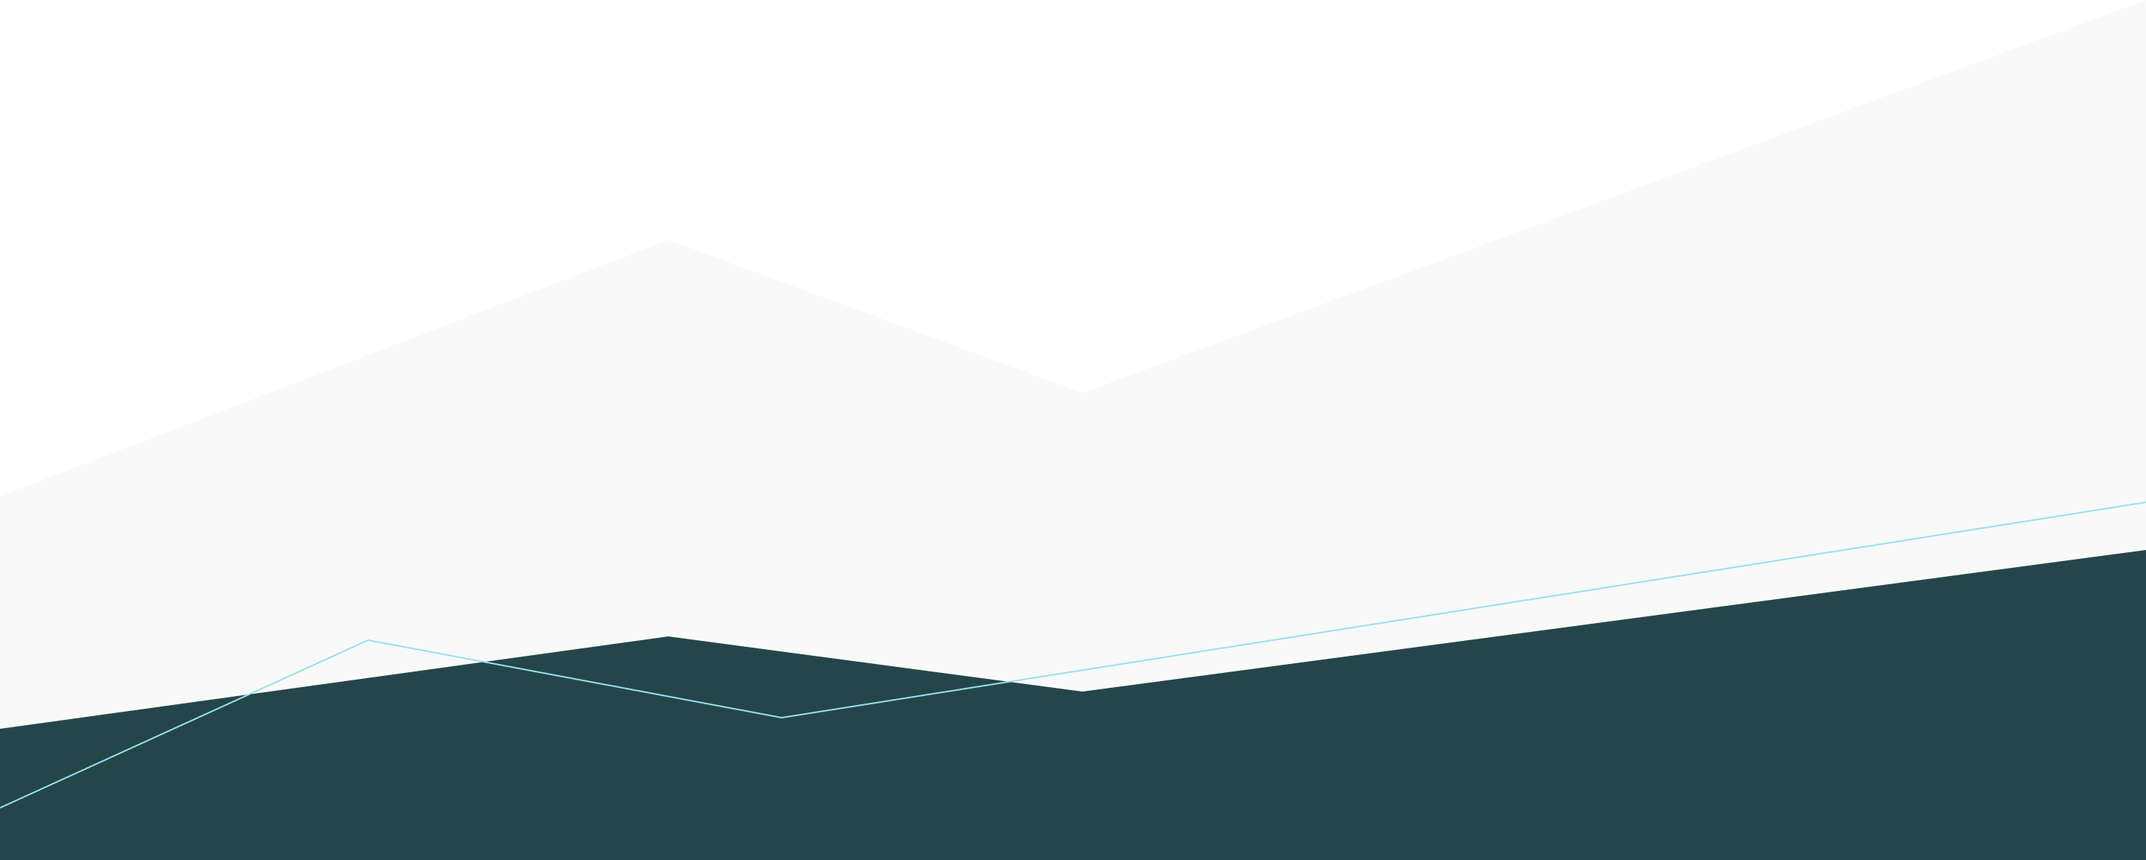
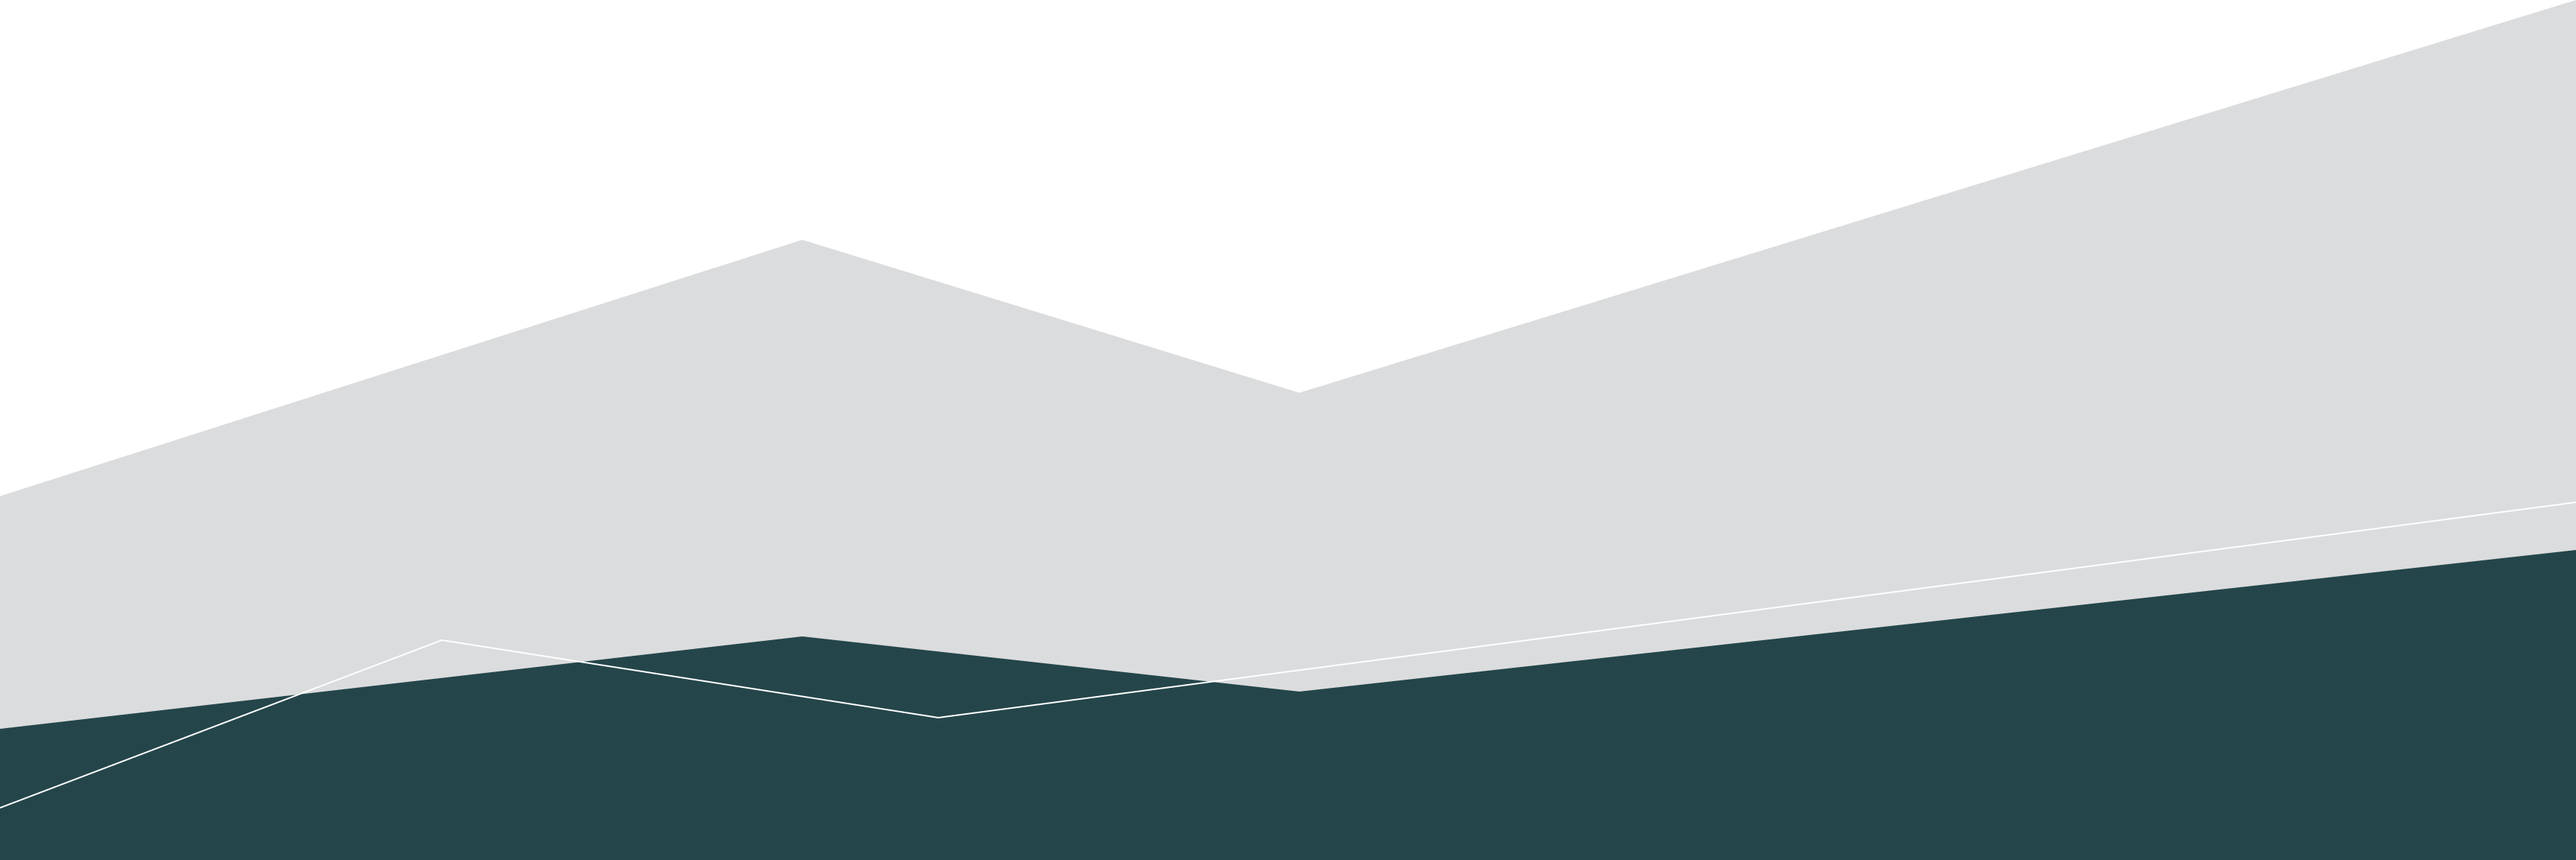
Update KYC fields and adjust design

diff --git a/apps/archie-dashboard/src/components/_generic/icons/logo.tsx b/apps/archie-dashboard/src/components/_generic/icons/logo.tsx
@@ -5,40 +5,33 @@ import { colors } from '../../../constants/theme';
 import { iconProps } from './icons.interface';
 
 export const Logo: FC<iconProps> = ({ fill = colors.black, className }) => (
-  <svg
-    width="118"
-    height="32"
-    viewBox="0 0 118 32"
-    fill="none"
-    xmlns="http://www.w3.org/2000/svg"
-    className={className}
-  >
+  <svg width="86" height="26" viewBox="0 0 86 26" fill="none" xmlns="http://www.w3.org/2000/svg" className={className}>
     <path
-      d="M43.5734 22.9834L42.9489 29.0076H38.0757L41.638 3.78589H48.7447L52.3943 29.0148H47.4245L46.7252 22.9906L43.5734 22.9834ZM46.3103 18.7239C45.9502 15.4575 45.446 10.5958 45.2105 8.14916H45.0218C44.9332 9.92818 44.3354 15.585 43.9954 18.7253L46.3103 18.7239Z"
+      d="M34.2943 18.2258L33.8174 22.729H30.0957L32.8163 3.875H38.2437L41.0309 22.7344H37.2355L36.7014 18.2312L34.2943 18.2258ZM36.3845 15.0416C36.1095 12.5999 35.7245 8.96566 35.5446 7.13669H35.4005C35.3328 8.46656 34.8763 12.6952 34.6166 15.0427L36.3845 15.0416Z"
       fill={fill}
     />
     <path
-      d="M53.7383 15.8629C53.7383 12.4612 53.752 10.8485 53.6893 9.10768H58.2478C58.2989 9.51102 58.3861 11.1885 58.3861 12.096C59.1005 9.75086 60.6851 8.81886 62.5217 8.80518V14.6147C60.2112 14.6147 58.5236 15.0425 58.5236 18.4594V29.0075H53.7383V15.8629Z"
+      d="M42.0589 12.9028C42.0589 10.3599 42.0693 9.15442 42.0215 7.85309H45.5028C45.5419 8.1546 45.6084 9.40855 45.6084 10.0869C46.1541 8.33389 47.3642 7.63718 48.7668 7.62695V11.9698C47.0023 11.9698 45.7135 12.2896 45.7135 14.8438V22.7288H42.0589V12.9028Z"
       fill={fill}
     />
     <path
-      d="M75.4647 21.9764V22.6556C75.4647 26.4355 74.4405 29.3136 69.5586 29.3136C64.9224 29.3136 63.8002 26.5284 63.8002 22.1932V15.389C63.8002 11.965 65.0736 8.80884 69.7718 8.80884C74.864 8.80884 75.5057 12.266 75.5057 14.9727V15.9429H70.9033V14.7574C70.9033 13.4256 70.7038 12.6895 69.7509 12.6895C68.7981 12.6895 68.5755 13.4336 68.5755 14.7329V23.3759C68.5755 24.5362 68.7757 25.4056 69.7509 25.4056C70.7262 25.4056 70.9033 24.5607 70.9033 23.2369V21.9664L75.4647 21.9764Z"
+      d="M58.6504 17.4721V17.9798C58.6504 20.8054 57.8682 22.9569 54.1399 22.9569C50.5992 22.9569 49.7422 20.8749 49.7422 17.6342V12.5478C49.7422 9.98822 50.7147 7.62891 54.3027 7.62891C58.1916 7.62891 58.6817 10.2133 58.6817 12.2366V12.9619H55.1669V12.0756C55.1669 11.0801 55.0145 10.5299 54.2868 10.5299C53.559 10.5299 53.3891 11.086 53.3891 12.0573V18.5182C53.3891 19.3856 53.542 20.0355 54.2868 20.0355C55.0315 20.0355 55.1669 19.4039 55.1669 18.4143V17.4646L58.6504 17.4721Z"
       fill={fill}
     />
     <path
-      d="M81.9827 3.14842V10.6585C82.6691 9.54928 83.82 8.80527 85.6437 8.80527C88.6911 8.80527 89.6418 11.038 89.6418 13.8982V29.0076H84.8327V15.0945C84.8327 13.8845 84.595 12.9885 83.4822 12.9885C82.3694 12.9885 81.9697 13.6583 81.9697 15.5605V29.0076H77.1944V2.66874H81.5001C81.563 2.66794 81.6254 2.67969 81.6838 2.70331C81.7425 2.72669 81.7959 2.76172 81.8408 2.80631C81.886 2.85105 81.9218 2.90445 81.9459 2.96332C81.9703 3.02198 81.9828 3.0849 81.9827 3.14842Z"
+      d="M63.6275 3.39767V9.01167C64.1517 8.18252 65.0307 7.62634 66.4234 7.62634C68.7507 7.62634 69.4768 9.29541 69.4768 11.4334V22.7282H65.8041V12.3277C65.8041 11.4232 65.6226 10.7534 64.7727 10.7534C63.9229 10.7534 63.6176 11.2541 63.6176 12.6761V22.7282H59.9707V3.03909H63.259C63.307 3.03849 63.3547 3.04728 63.3992 3.06493C63.4441 3.08241 63.4849 3.1086 63.5191 3.14193C63.5537 3.17538 63.581 3.2153 63.5994 3.2593C63.6181 3.30315 63.6276 3.35018 63.6275 3.39767Z"
       fill={fill}
     />
     <path
-      d="M91.4324 9.11201H96.2156V29.0111H91.4324V9.11201ZM91.8753 2.67298H95.823C95.8781 2.67292 95.9326 2.68377 95.9834 2.70491C96.0342 2.72606 96.0803 2.75706 96.119 2.79614C96.1977 2.87573 96.2417 2.98316 96.2415 3.09504V6.63867C96.2417 6.75055 96.1977 6.85798 96.119 6.93757C96.0803 6.97675 96.0342 7.00786 95.9834 7.02913C95.9326 7.05039 95.8781 7.06138 95.823 7.06146H91.8753C91.8202 7.06138 91.7657 7.05062 91.7147 7.02977C91.6639 7.00824 91.6177 6.97719 91.5786 6.93829C91.5397 6.89875 91.5089 6.85203 91.4878 6.80073C91.4668 6.74932 91.4563 6.69422 91.4569 6.63867V3.09576C91.4556 3.03966 91.4654 2.98386 91.4857 2.93154C91.5064 2.87958 91.5369 2.83213 91.5757 2.79182C91.6147 2.75182 91.6613 2.72005 91.7127 2.6984C91.7642 2.67675 91.8195 2.66565 91.8753 2.66577V2.67298Z"
+      d="M70.8457 7.85588H74.4986V22.7311H70.8457V7.85588ZM71.184 3.04249H74.1989C74.2409 3.04245 74.2825 3.05057 74.3213 3.06637C74.3601 3.08217 74.3953 3.10535 74.4249 3.13456C74.485 3.19406 74.5186 3.27437 74.5184 3.358V6.00698C74.5186 6.09061 74.485 6.17092 74.4249 6.23042C74.3954 6.2597 74.3602 6.28296 74.3214 6.29886C74.2826 6.31475 74.2409 6.32297 74.1989 6.32303H71.184C71.1419 6.32297 71.1003 6.31493 71.0613 6.29934C71.0225 6.28325 70.9872 6.26004 70.9574 6.23096C70.9277 6.2014 70.9041 6.16647 70.8881 6.12812C70.872 6.08969 70.8639 6.0485 70.8644 6.00698V3.35854C70.8634 3.3166 70.8709 3.27489 70.8864 3.23578C70.9022 3.19694 70.9256 3.16147 70.9552 3.13133C70.9849 3.10143 71.0205 3.07768 71.0598 3.0615C71.0991 3.04531 71.1413 3.03702 71.184 3.03711V3.04249Z"
       fill={fill}
     />
     <path
-      d="M102.567 20.2989V23.1979C102.567 24.4836 102.867 25.4307 103.968 25.4307C105.155 25.4307 105.354 24.4087 105.354 23.1367V22.7046H109.989V22.9746C109.989 25.6079 109.202 29.3244 103.993 29.3244C98.9006 29.3244 97.8325 26.4009 97.8325 22.3185V15.5986C97.8325 12.3647 99.2946 8.80518 104.004 8.80518C108.167 8.80518 110.054 11.326 110.054 15.5755V20.3011L102.567 20.2989ZM105.443 16.8597V14.9079C105.443 13.3579 105.106 12.652 104.03 12.652C103.104 12.652 102.59 13.3197 102.59 14.9079V16.8597H105.443Z"
+      d="M79.348 16.2189V18.386C79.348 19.3471 79.5773 20.0551 80.4184 20.0551C81.3243 20.0551 81.4767 19.2911 81.4767 18.3402V18.0172H85.0163V18.2191C85.0163 20.1875 84.4156 22.9657 80.4371 22.9657C76.5482 22.9657 75.7324 20.7803 75.7324 17.7286V12.7052C75.7324 10.2878 76.849 7.62695 80.4459 7.62695C83.6247 7.62695 85.0664 9.51139 85.0664 12.688V16.2205L79.348 16.2189ZM81.5449 13.648V12.1889C81.5449 11.0302 81.2869 10.5026 80.4657 10.5026C79.7583 10.5026 79.3656 11.0017 79.3656 12.1889V13.648H81.5449Z"
       fill={fill}
     />
     <path
-      d="M15.9951 0C7.16103 0 0 7.16103 0 15.9951C0 24.8293 7.16103 31.9903 15.9951 31.9903C24.8293 31.9903 31.9903 24.8293 31.9903 15.9951C31.9903 7.16103 24.8293 0 15.9951 0ZM23.5728 23.5728C21.8196 25.326 19.5127 26.417 17.0453 26.6599C14.5778 26.9029 12.1025 26.2828 10.041 24.9053C7.97951 23.5277 6.45943 21.478 5.73977 19.1054C5.02011 16.7328 5.1454 14.184 6.09428 11.8934C7.04317 9.60274 8.75694 7.712 10.9436 6.5433C13.1302 5.37459 15.6545 5.00023 18.0862 5.48401C20.5179 5.9678 22.7067 7.27978 24.2795 9.19642C25.8524 11.1131 26.712 13.5158 26.7119 15.9951C26.7157 17.403 26.4402 18.7977 25.9014 20.0984C25.3626 21.3991 24.5711 22.5801 23.5728 23.5728ZM9.03006 15.9951L11.7492 13.276H20.2419L22.961 15.9951L15.9951 22.9602L9.03006 15.9951Z"
+      d="M12.2156 0.785156C5.46891 0.785156 0 6.25407 0 13.0007C0 19.7474 5.46891 25.2163 12.2156 25.2163C18.9622 25.2163 24.4311 19.7474 24.4311 13.0007C24.4311 6.25407 18.9622 0.785156 12.2156 0.785156ZM18.0027 18.7879C16.6637 20.1267 14.902 20.9599 13.0176 21.1455C11.1332 21.331 9.24273 20.8575 7.66836 19.8054C6.09399 18.7534 4.9331 17.188 4.38349 15.376C3.83388 13.564 3.92956 11.6175 4.65423 9.86817C5.3789 8.11882 6.68772 6.67485 8.35768 5.7823C10.0276 4.88976 11.9554 4.60386 13.8125 4.97332C15.6696 5.34279 17.3412 6.34476 18.5424 7.80851C19.7436 9.27225 20.4001 11.1072 20.4 13.0007C20.4029 14.0759 20.1925 15.1411 19.781 16.1344C19.3695 17.1278 18.7651 18.0297 18.0027 18.7879ZM6.8963 13.0007L8.97295 10.9241H15.4588L17.5354 13.0007L12.2156 18.32L6.8963 13.0007Z"
       fill={fill}
     />
   </svg>

diff --git a/apps/archie-dashboard/src/routes/onboarding/components/onboarding-steps/kyc-step/kyc-step.tsx b/apps/archie-dashboard/src/routes/onboarding/components/onboarding-steps/kyc-step/kyc-step.tsx
@@ -1,11 +1,11 @@
 import { FC } from 'react';
 import { Formik, Form, Field, FormikValues } from 'formik';
-import { format, parse, isDate, differenceInYears } from 'date-fns';
+import { format, differenceInYears } from 'date-fns';
 import * as Yup from 'yup';
 import { RequestState } from '@archie/api-consumer/interface';
 import { useCreateKyc } from '@archie/api-consumer/kyc/hooks/use-create-kyc';
 import { step } from '../../../../../constants/onboarding-steps';
-import { SubtitleS, ParagraphS } from '../../../../../components/_generic/typography/typography.styled';
+import { SubtitleS, ParagraphXS } from '../../../../../components/_generic/typography/typography.styled';
 import { ButtonPrimary } from '../../../../../components/_generic/button/button.styled';
 import { InputText } from '../../../../../components/_generic/input-text/input-text.styled';
 import { ArrowRight } from '../../../../../components/_generic/icons/arrow-right';
@@ -23,14 +23,16 @@ export const KycStep: FC<KycStepProps> = ({ setCurrentStep }) => {
   const minYears = (value: Date) => differenceInYears(new Date(), new Date(value)) >= 18;
 
   const validation = Yup.object().shape({
-    fullLegalName: Yup.string().min(2, 'Too Short!').max(50, 'Too Long!').required('Please enter the required field'),
+    firstName: Yup.string().min(2, 'Too Short!').max(50, 'Too Long!').required('Please enter the required field'),
+    lastName: Yup.string().min(2, 'Too Short!').max(50, 'Too Long!').required('Please enter the required field'),
     dateOfBirth: Yup.date()
       .nullable()
       .test('dob', 'Should be older than 18', (value) => minYears(value ?? today))
       .max(today, 'Date cannot be in the future')
       .required('Please enter the required field'),
-    country: Yup.string().required('Please enter the required field'),
-    state: Yup.string().required('Please enter the required field'),
+    address: Yup.string().required('Please enter the required field'),
+    phoneNumber: Yup.string().required('Please enter the required field'),
+    phoneNumberCountryCode: Yup.string().required('Please enter the required field'),
     ssnDigits: Yup.string()
       .matches(/^[0-9]+$/, 'Only digits')
       .test('len', 'Must be exactly 4 digits', (value) => value?.length === 4)
@@ -40,10 +42,12 @@ export const KycStep: FC<KycStepProps> = ({ setCurrentStep }) => {
   const handleSubmit = (values: FormikValues) => {
     if (mutationRequest.state === RequestState.IDLE) {
       mutationRequest.mutate({
-        fullLegalName: values.fullLegalName,
+        firstName: values.firstName,
+        lastname: values.lastname,
         dateOfBirth: values.dateOfBirth.toISOString(),
-        country: values.country,
-        state: values.state,
+        address: values.address,
+        phoneNumber: values.phoneNumber,
+        phoneNumberCountryCode: values.phoneNumberCountryCode,
         ssnDigits: values.ssnDigits,
       });
 
@@ -56,16 +60,18 @@ export const KycStep: FC<KycStepProps> = ({ setCurrentStep }) => {
   return (
     <KycStepStyled>
       <SubtitleS>A bit about you</SubtitleS>
-      <ParagraphS>
+      <ParagraphXS>
         We need to ask some personal information for compliance reasons. This information will not impact your credit
         score or your ability to get the Archie Card.
-      </ParagraphS>
+      </ParagraphXS>
       <Formik
         initialValues={{
-          fullLegalName: '',
+          firstName: '',
+          lastName: '',
           dateOfBirth: format(today, 'MM-dd-yyyy'),
-          country: 'United states',
-          state: '',
+          address: '',
+          phoneNumber: '',
+          phoneNumberCountryCode: '',
           ssnDigits: '',
         }}
         validationSchema={validation}
@@ -73,25 +79,32 @@ export const KycStep: FC<KycStepProps> = ({ setCurrentStep }) => {
       >
         {({ errors, touched }) => (
           <Form>
-            <InputText>
-              Full legal name*
-              <Field name="fullLegalName" placeholder="John Doe" />
-              {errors.fullLegalName && touched.fullLegalName ? <div>{errors.fullLegalName}</div> : null}
-            </InputText>
+            <div className="input-group">
+              <InputText>
+                First Name*
+                <Field name="firstName" placeholder="John" />
+                {errors.firstName && touched.firstName ? <div>{errors.firstName}</div> : null}
+              </InputText>
+              <InputText>
+                Last Name*
+                <Field name="lastName" placeholder="Doe" />
+                {errors.lastName && touched.lastName ? <div>{errors.lastName}</div> : null}
+              </InputText>
+            </div>
             <InputText>
               Date of birth*
               <Field name="dateOfBirth" placeholder="Date of birth" />
               {errors.dateOfBirth && touched.dateOfBirth ? <div>{errors.dateOfBirth}</div> : null}
             </InputText>
             <InputText>
-              Country of residence*
-              <Field name="country" placeholder="Country" disabled />
-              {errors.country && touched.country ? <div>{errors.country}</div> : null}
+              Address*
+              <Field name="address" placeholder="Street, City, State" disabled />
+              {errors.address && touched.address ? <div>{errors.address}</div> : null}
             </InputText>
             <InputText>
-              State of residence*
-              <Field name="state" placeholder="State" />
-              {errors.state && touched.state ? <div>{errors.state}</div> : null}
+              Phone Number*
+              <Field name="phoneNumber" placeholder="+386 30 248 965" />
+              {errors.phoneNumber && touched.phoneNumber ? <div>{errors.phoneNumber}</div> : null}
             </InputText>
             <InputText>
               Last 4 SSN digits*

diff --git a/apps/archie-dashboard/src/routes/onboarding/components/onboarding-steps/kyc-step/kyc-step.styled.ts b/apps/archie-dashboard/src/routes/onboarding/components/onboarding-steps/kyc-step/kyc-step.styled.ts
@@ -14,7 +14,7 @@ export const KycStepStyled = styled.div`
   text-align: center;
 
   h4 {
-    margin-bottom: 1.5rem;
+    margin-bottom: 0.5rem;
   }
 
   p {
@@ -25,8 +25,9 @@ export const KycStepStyled = styled.div`
     width: 100%;
   }
 
-  button {
-    margin-bottom: 1.5rem;
+  .input-group {
+    display: flex;
+    gap: 1rem;
   }
 
   .divider {
@@ -34,6 +35,10 @@ export const KycStepStyled = styled.div`
   	width: 100%;
     background-color: ${({ theme }) => theme.borderPrimary};
     border: 0;
-    margin-bottom: 2rem;
+    margin-bottom: 1.5rem;
   }  
+
+  button {
+    margin-bottom: 0.5rem;
+  }
 `

diff --git a/apps/archie-dashboard/src/routes/onboarding/onboarding-route.styled.ts b/apps/archie-dashboard/src/routes/onboarding/onboarding-route.styled.ts
@@ -8,16 +8,13 @@ export const OnboardingStyled = styled.div`
   display: flex;
   justify-content: center;
   align-items: flex-start;
+  background-color: ${({ theme }) => theme.backgroundSecondary};
   background-image: url(${bgOnboarding});
   background-repeat: no-repeat;
   background-size: 100%;
   background-position: bottom;
   width: 100%;
-  padding: 5rem 1rem;
-
-  @media (max-width: ${breakpoints.screenMD}) {
-    padding: 3rem 1rem;
-  }
+  padding: 3rem 1rem;
 
   @media (max-width: ${breakpoints.screenSM}) {
     padding: 2rem 1rem;

diff --git a/apps/archie-dashboard/src/constants/theme.ts b/apps/archie-dashboard/src/constants/theme.ts
@@ -9,6 +9,7 @@ export const colors: { [color: string]: string } = {
   teal: "#70d1df",
   neutralgray: "#9fa3a4",
   neutralgray_200: "#dbdcdd",
+  neutralgray_100: "#f9f9f9",
   lightgray: "#bdc0c1",
   yellow: "#ffea00",
   transparent: "transparent",
@@ -19,6 +20,7 @@ export const theme: { [key: string]: string } = {
   fontPrimary: "Inter",
   // background
   backgroundPrimary: colors.white,
+  backgroundSecondary: colors.neutralgray_100,
   backgroundAlert: colors.yellow,
   // text
   textPrimary: colors.black,

diff --git a/libs/archie-api-consumer/src/kyc/api/create-kyc.ts b/libs/archie-api-consumer/src/kyc/api/create-kyc.ts
@@ -2,10 +2,12 @@ import { API_URL } from '../../constants';
 import { DefaultVariables, postRequest } from '../../helpers';
 
 export interface CreateKycPayload extends DefaultVariables {
-  fullLegalName: string;
+  firstName: string;
+  lastName: string;
   dateOfBirth: string;
-  country: string;
-  state: string;
+  address: string;
+  phoneNumber: string;
+  phoneNumberCountryCode: string;
   ssnDigits: number;
 }
 

diff --git a/libs/archie-api-consumer/src/kyc/api/get-kyc.ts b/libs/archie-api-consumer/src/kyc/api/get-kyc.ts
@@ -2,10 +2,12 @@ import { API_URL } from '../../constants';
 import { getRequest } from '../../helpers';
 
 export interface GetKycResponse {
-  fullLegalName: string;
+  firstName: string;
+  lastName: string;
   dateOfBirth: string;
-  country: string;
-  state: string;
+  address: string;
+  phoneNumber: string;
+  phoneNumberCountryCode: string;
   ssnDigits: number;
 }
 

diff --git a/apps/archie-dashboard/src/components/_generic/typography/typography.styled.ts b/apps/archie-dashboard/src/components/_generic/typography/typography.styled.ts
@@ -52,7 +52,7 @@ export const SubtitleS = styled.h4<TypographyProps>`
   font-size: 2.5rem; //40
   line-height: 1.2;
   color: ${({ theme, color }) => color ?? theme.textPrimary};
-  font-weight: ${({ weight }) => weight ?? 900};
+  font-weight: ${({ weight }) => weight ?? 800};
 
   @media (max-width: ${breakpoints.screenMD}) {
     font-size: 2rem; //32

diff --git a/apps/archie-dashboard/src/components/_generic/header/header.styled.ts b/apps/archie-dashboard/src/components/_generic/header/header.styled.ts
@@ -6,8 +6,6 @@ export const HeaderStyled = styled.div`
   display: flex;
   align-items: center;
   background-color: ${({ theme }) => theme.backgroundPrimary};
-  border-bottom: 1px solid ${({theme }) => theme.borderPrimary};
-  min-height: 97px; // Temp, change once unified with marketing-site
   width: 100%;
   padding: 1.5rem 10rem;
 

diff --git a/apps/archie-dashboard/src/components/_generic/input-text/input-text.styled.ts b/apps/archie-dashboard/src/components/_generic/input-text/input-text.styled.ts
@@ -10,7 +10,7 @@ export const InputText = styled.label`
   font-weight: 700;
   letter-spacing: 0.02em;
   width: 100%;
-  margin-bottom: 2rem;
+  margin-bottom: 1.5rem;
 
   input {
     font-size: 0.875rem;
